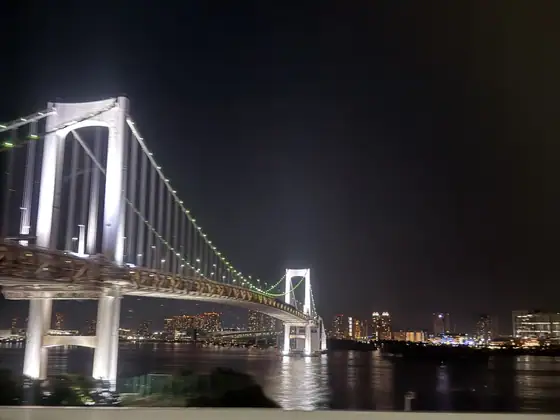
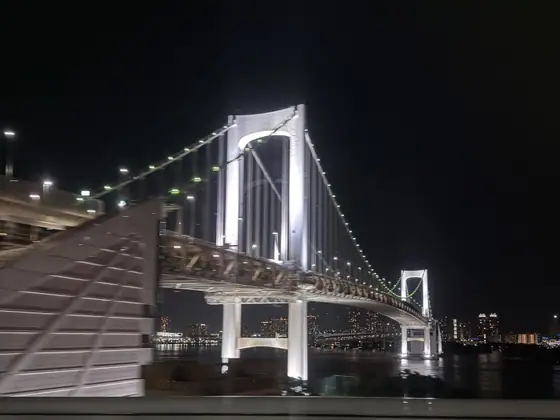
Remove Tokyo photograph 210

diff --git a/index.html b/index.html
@@ -378,13 +378,13 @@
   </footer>
 
   <div class="lightbox" role="dialog" aria-modal="true" aria-label="Photo viewer">
-    <div class="lightbox-top"><span class="counter">01 / 378</span><button class="close" aria-label="Close">×</button></div>
+    <div class="lightbox-top"><span class="counter">01 / 377</span><button class="close" aria-label="Close">×</button></div>
     <figure><img src="" alt="Enlarged photograph from the journey through Japan"></figure>
     <div class="lightbox-bottom"><button class="prev" aria-label="Previous photograph">←</button><span class="caption"></span><button class="next" aria-label="Next photograph">→</button></div>
   </div>
   <script>
     const tokyoGrid = document.querySelector('#tokyo-grid');
-    const tokyoPhotoCount = 213;
+    const tokyoPhotoCount = 212;
     tokyoGrid.innerHTML = Array.from({ length: tokyoPhotoCount }, (_, index) => {
       const number = String(index + 1).padStart(2, '0');
       const label = `Tokyo · ${number}`;
